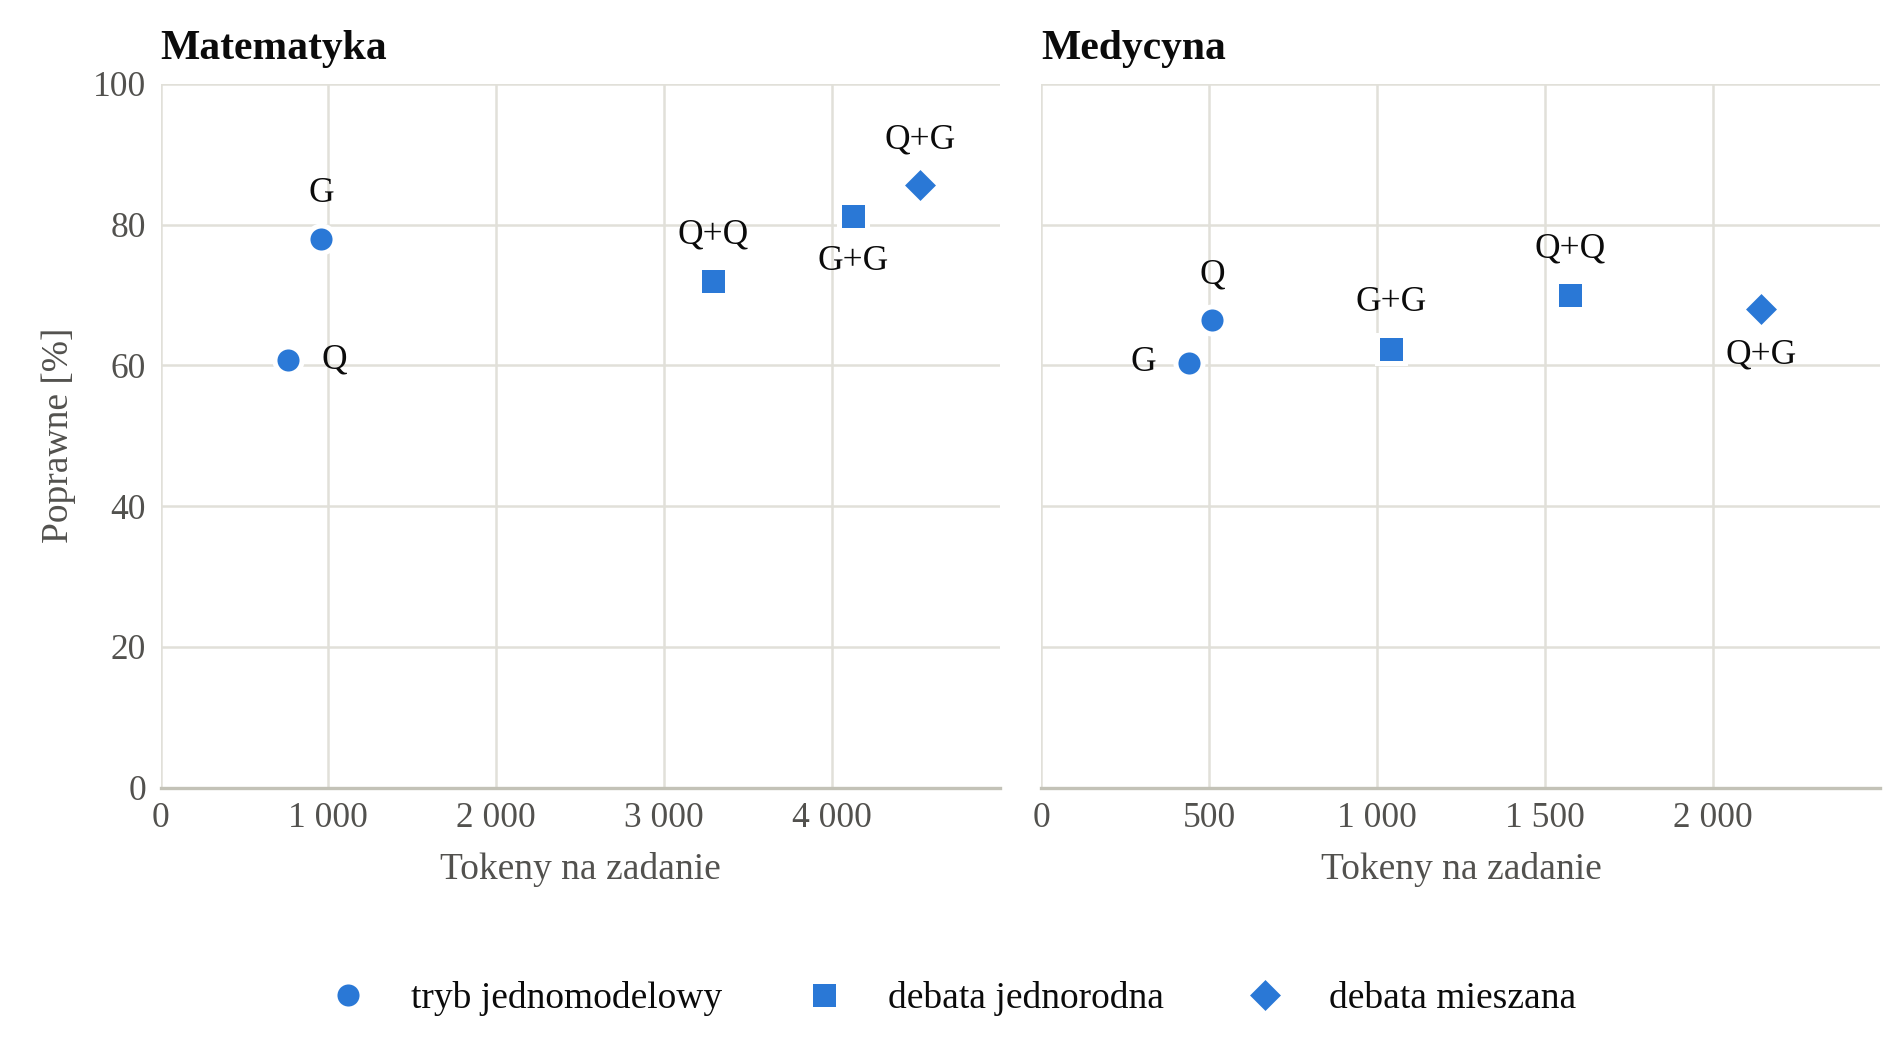
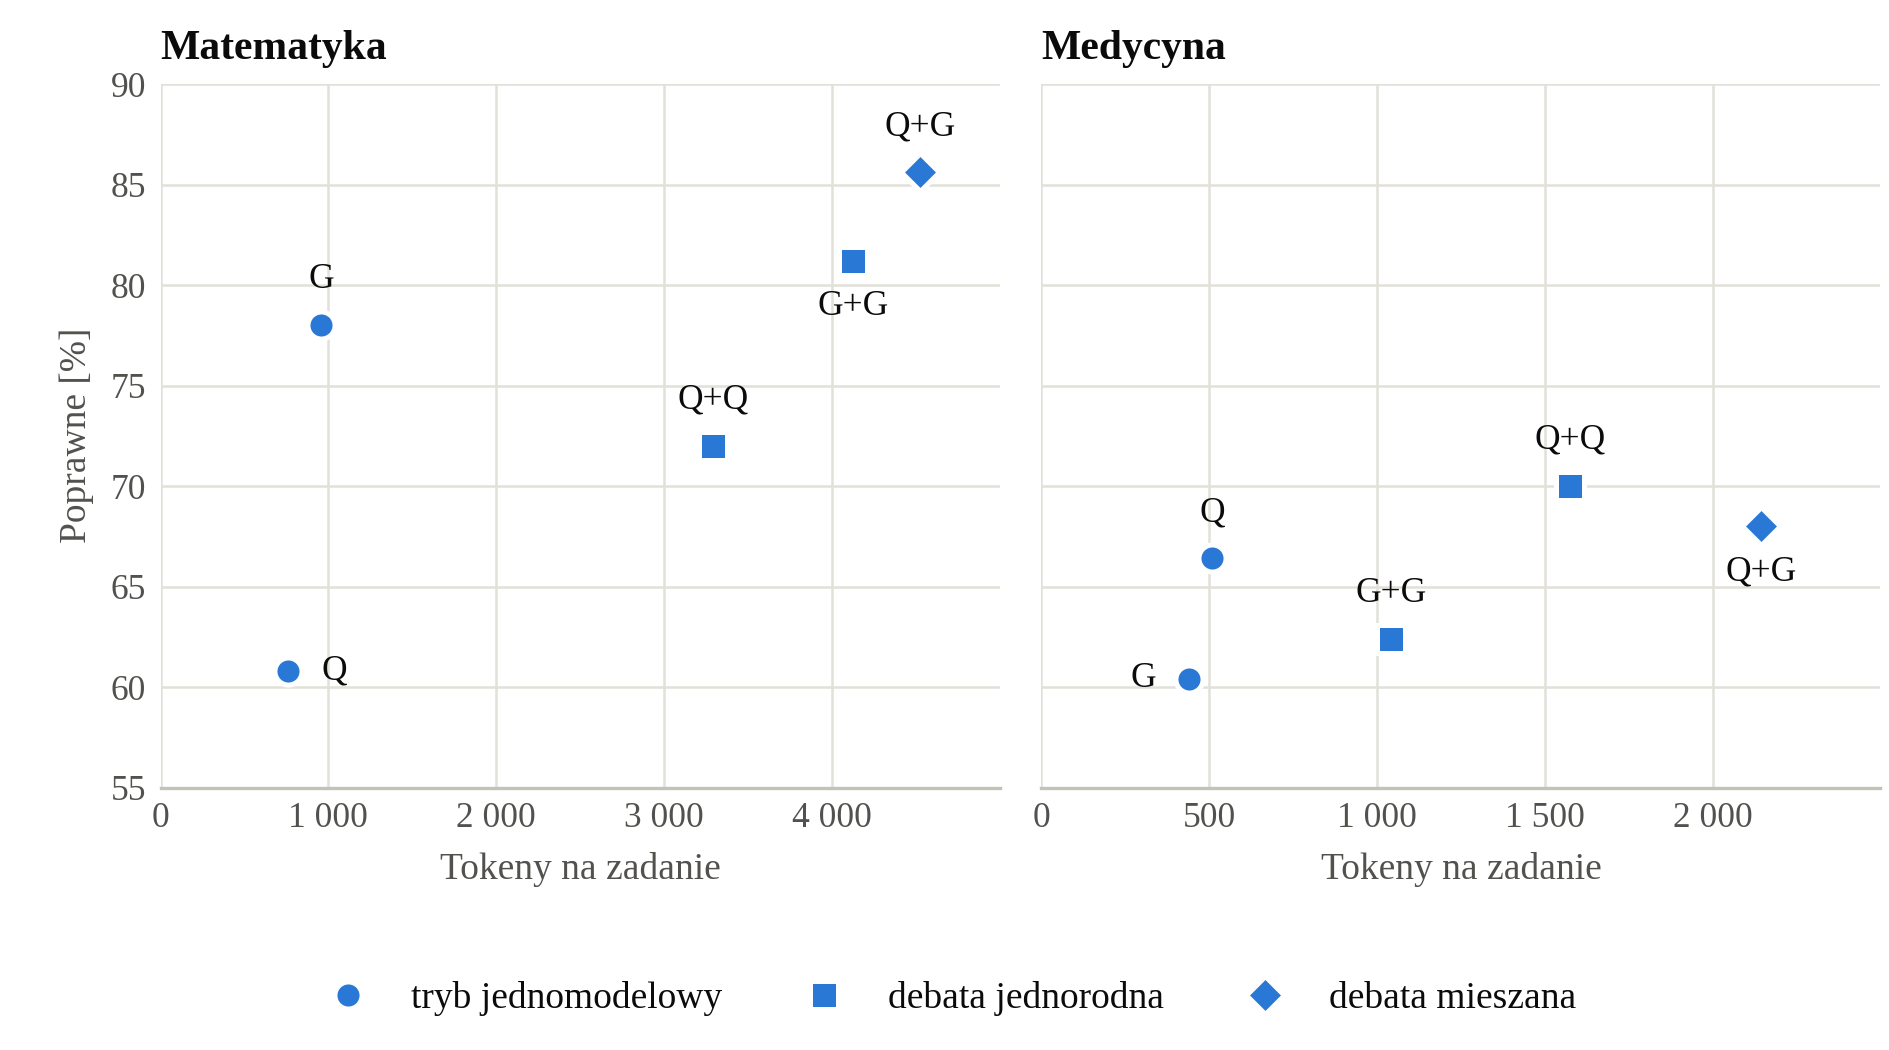
5.2.3 clean

diff --git a/code/thesis_figures.py b/code/thesis_figures.py
@@ -873,8 +873,7 @@ def plot_accuracy_vs_cost(stats, path):
         low, high, step = TOKEN_AXES[domain]
         ticks = range(low, high, step)
         ax.set_xlim(low, high)
-        ax.set_ylim(0, 100)
-        ax.set_yticks(range(0, 101, 25))
+        ax.set_ylim(55, 90)
         ax.set_xticks(ticks)
         ax.set_xticklabels([f"{tick:,}".replace(",", " ") for tick in ticks])
         ax.minorticks_off()
